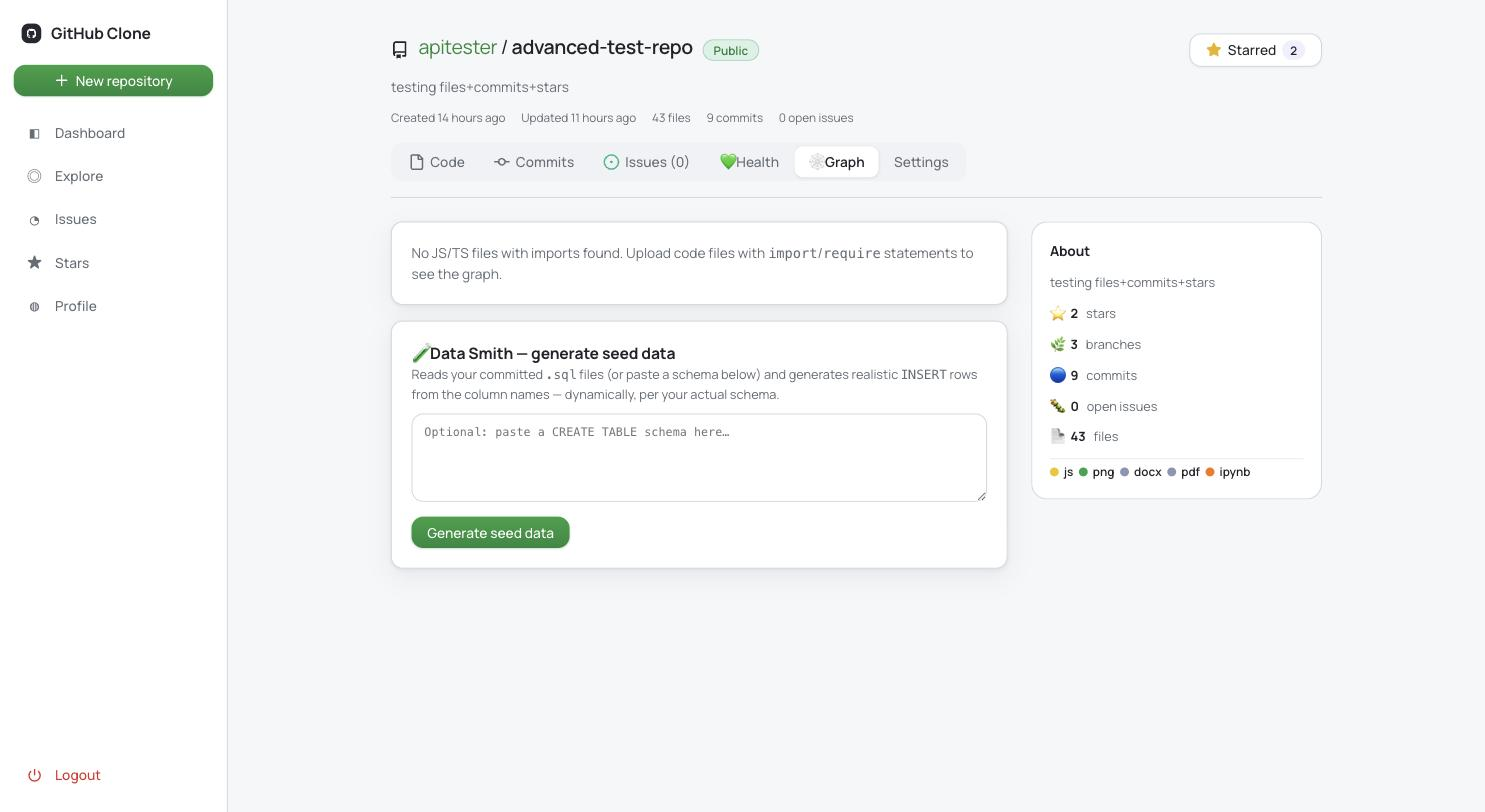
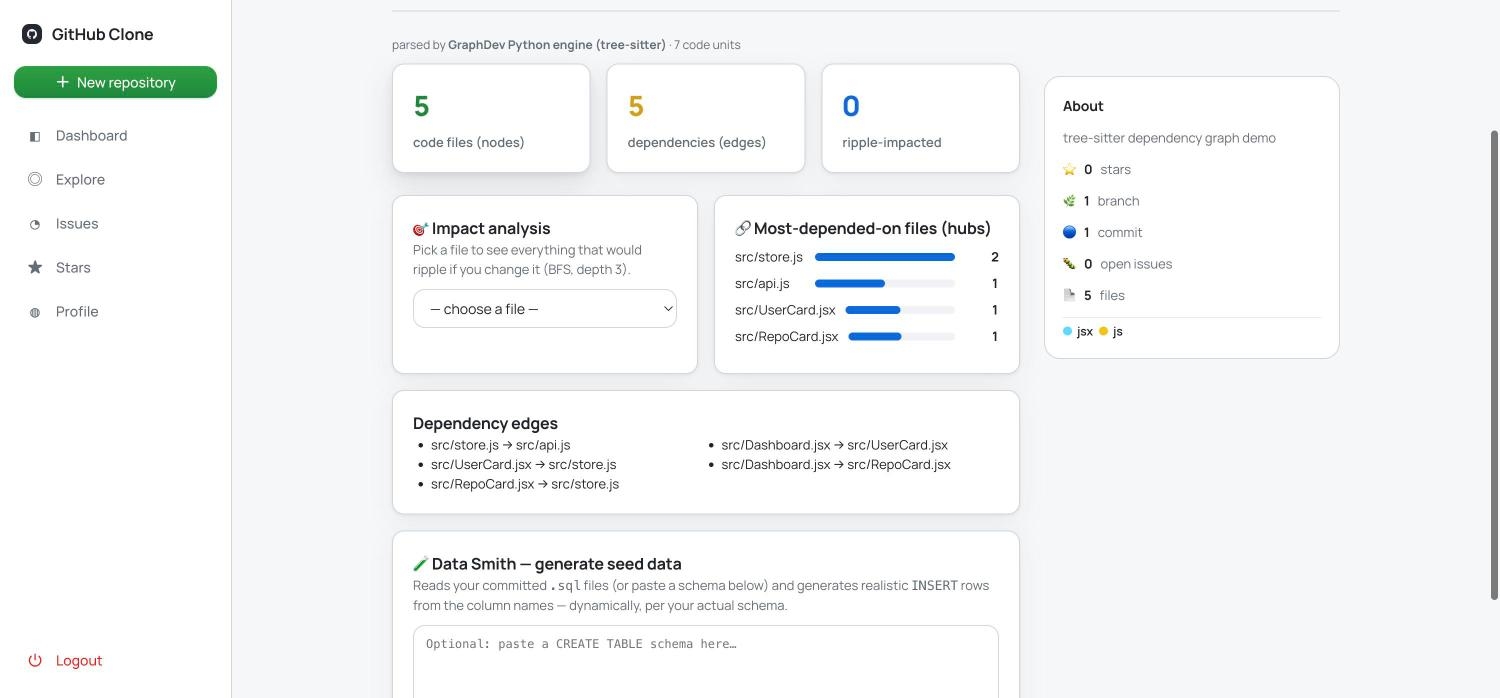
feat: Graph tab shows it's powered by the real GraphDev Python tree-sitter engine (7 code units, 5 edges from actual JS imports), with an engine badge; screenshot proves the advanced tool is running in-app

diff --git a/frontend-main/src/components/repo/RepoGraph.jsx b/frontend-main/src/components/repo/RepoGraph.jsx
@@ -105,6 +105,12 @@ const RepoGraph = ({ repoId }) => {
 
   return (
     <div className="repo-section">
+      {graph.engine && (
+        <p className="text-muted" style={{ fontSize: 12, marginBottom: 10 }}>
+          parsed by <b>{graph.engine === "graphdev-tree-sitter" ? "GraphDev Python engine (tree-sitter)" : "built-in JS parser"}</b>
+          {graph.unitCount ? ` · ${graph.unitCount} code units` : ""}
+        </p>
+      )}
       <div className="stat-cards">
         <div className="card stat-card">
           <span className="stat-num">{graph.nodeCount}</span>